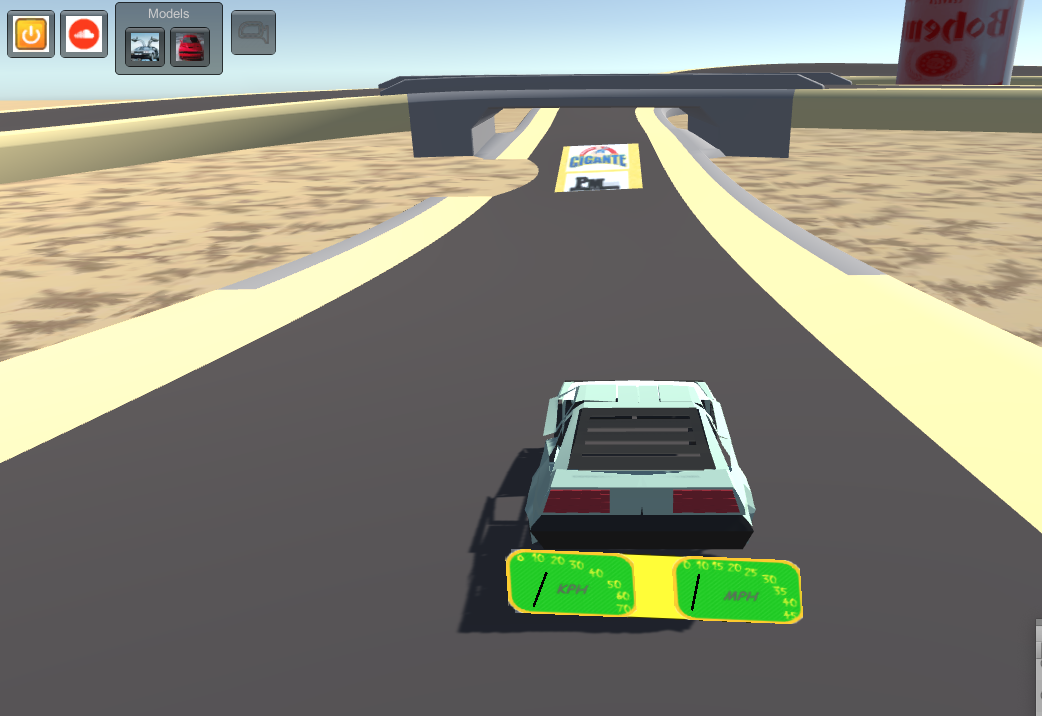
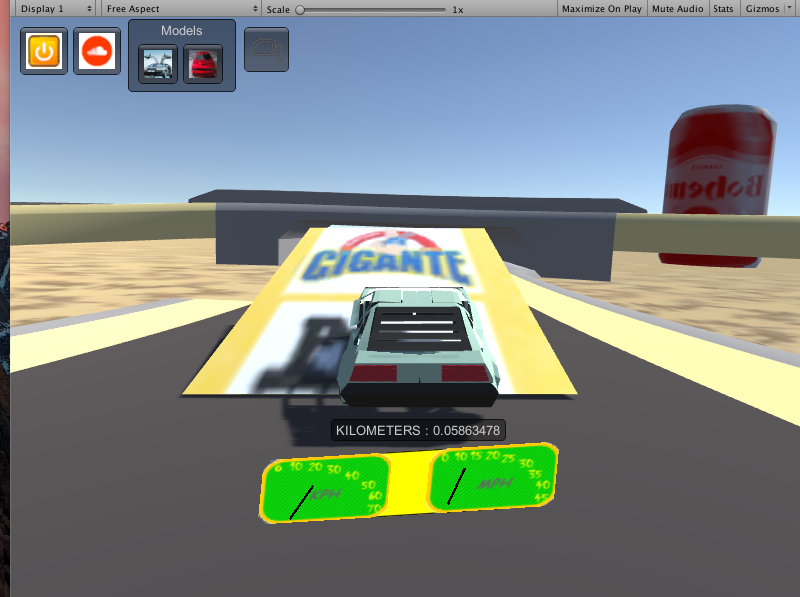
uss tiger shark on a mission ...

diff --git a/EthelsTurn/Assets/Scripts/WheelDrive.cs b/EthelsTurn/Assets/Scripts/WheelDrive.cs
@@ -98,9 +98,9 @@ public class WheelDrive : MonoBehaviour
  void OnGUI () 
     {
         //driving distance label
-		string distanceLabel =  "KILOMETERS : " + this.distanceRunnedKm;
+		//string distanceLabel =  "KILOMETERS : " + Mathf.Round((float) this.distanceRunnedKm);
+		string distanceLabel =  "KILOMETERS : " + (float) this.distanceRunnedKm;
 		GUI.Box(new Rect(this.distanceLabelx,this.distanceLabely,this.distanceLabelWidth,this.distanceLabelHeight), distanceLabel);
-		//GUI.Label (new Rect (this.distanceLabelx,this.distanceLabely,this.distanceLabelWidth,this.distanceLabelHeight), distanceLabel);
     }
 
 	void startDashItems(){
